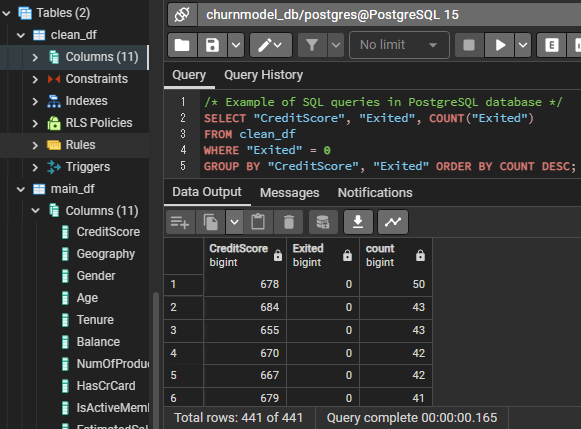
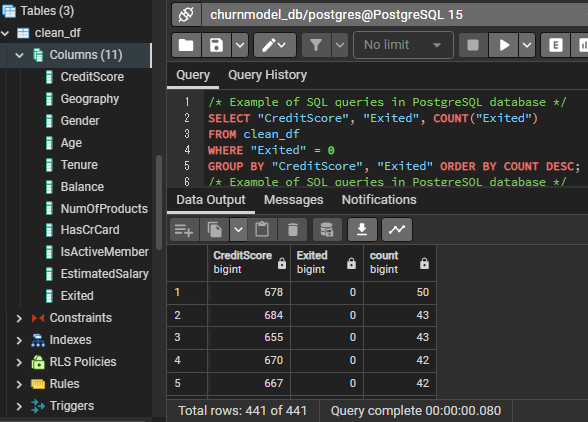
Update README.md and db

Changed region(s): [[0.0, 0.0, 1.0, 1.0]]

diff --git a/README.md b/README.md
@@ -14,8 +14,10 @@ This is a team collaboration project relevant to Machine Learning, Neural Networ
 - [Segment 2: Build and Assemble](#segment-2-build-and-assemble)
   - [Analysis Results](#analysis-results)
 - [Segment 3: Put It All Together](#segment-3-put-it-all-together)
-  - [Summary](#summary)
-- [References](#references)
+  - [Summary of Model Selection](#summary-of-model-selection)
+  - [Result of Optimization](#result-of-optimization)
+  - [Future Recommendation](#future-recommendation)
+- [Technologies and Software](#technologies-and-Software)
 
 ## Overview of Project
 
@@ -23,7 +25,7 @@ This project is divided into three Segments: Segment 1, Segment 2, and Segment 3
 
 - ✅ Segment 1: Sketch It Out.
 - ✅ Segment 2: Build and Assemble.
-- 🟩 Segment 3: Put It All Together.
+- ✅ Segment 3: Put It All Together.
 
 ### Team Member
 
@@ -49,17 +51,18 @@ This project was the final team project to cultivate collaboration, teamwork, an
 - ✅ Topic selection has been finalized: prediction of bank customer churn rate.
 
 - ✅ Assessment of dataset and database management system (DBMS) is completed.
-  - Our dataset consisted of 10000 rows and 14 columns. A few numeric columns contained some outliers as illustrated in Fig. 1(a)&ndash;(c).
-  - A PostgreSQL database that stores two tables, called **main_df** and **clean_df**, was created and can be connected without problems from Python code of each Team Member. We documented some SQL queries for retrieving some data from the database ([BankCustomerChurn_ModelSelection.ipynb](./BankCustomerChurn_ModelSelection.ipynb)).
+  - Our dataset consisted of 10000 rows and 14 columns (1 target and 13 features). A few numeric columns contained some outliers as illustrated in Fig. 1(a)&ndash;(c).
+  - A PostgreSQL database that stores three tables, called **main_df**, **clean_df**, and **clean_lt2sigma_df**, was created and can be connected without problems from/to Python code via an Object Relational Mapper (ORM) technique. We documented some SQL queries for retrieving some data from the database ([BankCustomerChurn_ModelSelection.ipynb](./BankCustomerChurn_ModelSelection.ipynb)).
 
   <hr>
   <table><tr><td><img src='Data/CreditScore_boxplot.png' title='(a) Column CreditScore'></td><td><img src='Data/Age_boxplot.png' title='(b) Column Age'></td><td><img src='Data/NumOfProducts_boxplot.png' title='(c) Column NumOfProducts'></td></tr></table>
 
   **Fig. 1 Boxplots of several numerical columns containing some outliers: (a) Column CreditScore, (b) Column Age, and (c) Column NumOfProducts.**
   <hr>
+  <table><tr><td><img src='Data/BankCustomerChurn_fabricated_db.png' title='(a) Exited=0'></td><td><img src='Data/BankCustomerChurn_fabricated_db_Exited.png' title='(b) Exited=1'></td></tr></table>
 
-  ![Fig. 2](./Data/BankCustomerChurn_fabricated_db.png)  
-  **Fig. 2 Bank Customer Churn fabricated DBMS (PostgreSQL).**
+  **Fig. 2 Bank Customer Churn fabricated DBMS (PostgreSQL) with three tables properly stored. SQL query examples showing a relationship between credit scores and (a) Exited=0 (customers who stayed with the banks), (b) Exited=1 (customers who left the banks).**
+  <hr>
 
 - ✅ Preprocessing dataset and EDA is completed. The cleaned datasets, [Churn_Modelling_main.csv](./Resources/Churn_Modelling_main.csv) and [Churn_Modelling_cs_lt850.csv](./Resources/Churn_Modelling_cs_lt850.csv), are stored in the GitHub repo and PostgreSQL database.
 
@@ -67,7 +70,7 @@ This project was the final team project to cultivate collaboration, teamwork, an
   - Evaluation Machine Learning or Neural Network models that could effectively predict bank customer churn rate.
   - Optimization of our final models is completed.
 
-- 🟩 Final Presentation.
+- ✅ Final Presentation.
   - Final presentation and story/dashboard are available online.
 
 ## Segment 1: Sketch It Out
@@ -77,13 +80,14 @@ Our team discussed our overall project objectives and resources (datasets, techn
 ### Resources
 
 - GitHub repository: [Bank-Customer-Churn](https://github.com/chris820629/Bank-Customer-Churn) for sharing our analysis details, datasets, and results.
-- Source code: [BankCustomerChurn_ModelSelection.ipynb](./BankCustomerChurn_ModelSelection.ipynb), [BankCustomerChurn_EDA.ipynb](./BankCustomerChurn_EDA.ipynb).
+- Source code: [BankCustomerChurn_EDA.ipynb](./BankCustomerChurn_EDA.ipynb), [BankCustomerChurn_ModelSelection.ipynb](./BankCustomerChurn_ModelSelection.ipynb), [RandomForestOptimization.ipynb](./RandomForestOptimization.ipynb).
 - Source data: [Churn_Modelling_2.csv](./Resources/Churn_Modelling_2.csv) (source: [Churn of Bank Customers](https://www.kaggle.com/datasets/mathchi/churn-for-bank-customers?resource=download)).
 - Database data: [Churn_Modelling_main.csv](./Resources/Churn_Modelling_main.csv), [Churn_Modelling_cs_lt850.csv](./Resources/Churn_Modelling_cs_lt850.csv), [Churn_Modelling_cs_lt2sigma.csv](./Resources/Churn_Modelling_cs_lt2sigma.csv).
 - Fabricated DBMS: PostgreSQL ([Bank Customer Churn fabricated DBMS](./Data/BankCustomerChurn_fabricated_db.png)).
+- Object Relational Mapper (ORM): [SQLAlchemy](https://www.sqlalchemy.org/).
 - Image file: png files.
 - Software: [Pandas User Guide](https://pandas.pydata.org/pandas-docs/stable/user_guide/index.html#user-guide), [Scikit-learn User Guide - Supervised Learning](https://scikit-learn.org/stable/supervised_learning.html), [Python imbalanced-learn](https://pypi.org/project/imbalanced-learn/).
-- Tableau dashboard: [Tableau Dashboard](https://public.tableau.com/views/BankCustomerChurnAnalysis_16754641709880/BankCustomerChurnAnalysis?:language=en-US&publish=yes&:display_count=n&:origin=viz_share_link).
+- Tableau dashboard: [Tableau Dashboard](https://public.tableau.com/views/BankCustomerChurnAnalysis_16754641709880/BankCustomerChurnAnalysis?:language=en-US&publish=yes&:display_count=n&:origin=viz_share_link), [Model Performance Comparison](https://public.tableau.com/views/ML_Dashboard/ModelPerformanceComparison?:language=en-US&publish=yes&:display_count=n&:origin=viz_share_link/reporting/4cc5a6b1-e7a5-43c8-a0ab-25ae1ee65bbc/page/adKED).
 
 ### Model Selection Criteria
 
@@ -151,11 +155,11 @@ We put the final touches on our models, database, and dashboard. Then create and
 - Will transform the summary statistics table into a fabricated database that can also be used for Tableau dashboard/story.
 - Final touches.
 
-### Summary
+### Summary of Model Selection
 
 **Table 1&ndash;2** summarize the main reasons why we preferred the ensemble learning models over the others for our study.
 
-**Table 2. Assessments of learning model selection (RFC: RandomForestClassifier, BRFC: BalancedRandomForestClassifier, EEC: EasyEnsembleClassifier, ABC: AdaBoostClassifier, NN/DNN: Neural Network/Deep Neural Network, LogisticR: LogisticRegression).**  
+**Table 2. Assessments of learning model selection (_Ensemble Learning_ RFC: RandomForestClassifier, BRFC: BalancedRandomForestClassifier, EEC: EasyEnsembleClassifier, ABC: AdaBoostClassifier, _Artificial Neural Network_ NN/DNN: Neural Network/Deep Neural Network, _Simple Regression_ LogisticR: LogisticRegression).**  
 | Learning algorithm            | RFC  | BRFC | EEC  | ABC  | NN/DNN   | LogisticR |
 | :--                           | :--: | :--: | :--: | :--: | :--:     | :--:      |
 | Bagging/Bootstrap Aggregating | Yes  | Yes  | No   | No   | Yes      |  No       |
@@ -164,7 +168,7 @@ We put the final touches on our models, database, and dashboard. Then create and
 | Applicable to large datasets  | Yes  | Yes  | Yes  | Yes  | Yes      |  No       |
 | Applicable to non-linear data | Yes  | Yes  | Yes  | Yes  | Yes      |  No       |
 | Applicable to many features   | Yes  | Yes  | Yes  | Yes  | Yes      |  No       |
-| Require scaling of features   | No   | No   | No   | No   | No       |  Yes      |
+| Require scaling of features   | No   | No   | No   | No   | Yes/No   |  Yes      |
 | Robust to under/overfitting   | Yes  | Yes  | No   | No   | No       |  No       |
 | Model interpretation          | Yes  | Yes  | Yes  | Yes  | Black box |  Yes      |
 | Suitable for this project     | 🟢  | 🟢  | 🟢  | 🟡  | 🟡      |  ⛔       |
@@ -180,7 +184,7 @@ We put the final touches on our models, database, and dashboard. Then create and
 | After	       | 0	    | 0.90	                  | 0.90	    | 0.87	  | 0.88     |
 | After	       | 1	    | 0.90	                  | 0.89	    | 0.92	  | 0.90     |
 
-### Furture Recommendation
+### Future Recommendation
 
 Model selected after optimization is sufficient and successful. Here are some challenges and limitations we identified during the process: 
 - Unconscious bias: when analyzing data and deciding to remove outliers with certain criteria without awareness of underlying causes, for instance, why many cases with credit score to their maximal level. 
@@ -190,9 +194,10 @@ Model selected after optimization is sufficient and successful. Here are some ch
 With all, a few recommendations that might improve our prediction are listed below: 
 - Explore other data source and establish more concrete parameters to regulate training and testing data moving forward. 
 - Consider to transform dataset with less than 2 sigma range in certain features. 
-- Neural network deep learning with optimization could be further performed with the benefit of inclusive multiple unknown neurons and dense layers. 
+- Neural network deep learning with optimization could be further performed with the benefit of inclusive multiple unknown neurons and dense layers.
+- Look into optimizing the models by applying advanced feature engineering techniques.
 
-## References
+## Technologies and Software
 
 [Pandas User Guide](https://pandas.pydata.org/pandas-docs/stable/user_guide/index.html#user-guide)  
 [TensorFlow Documentation](https://www.tensorflow.org/guide/)  
